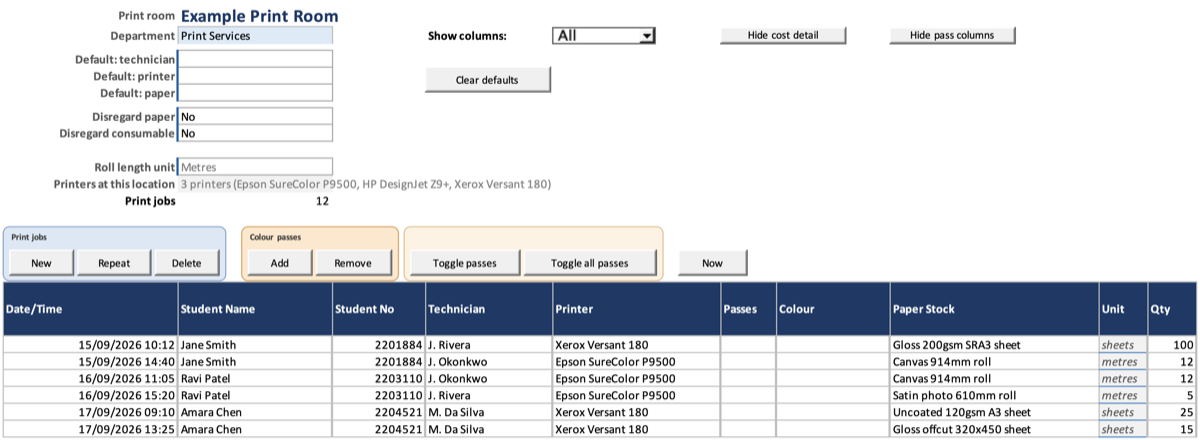
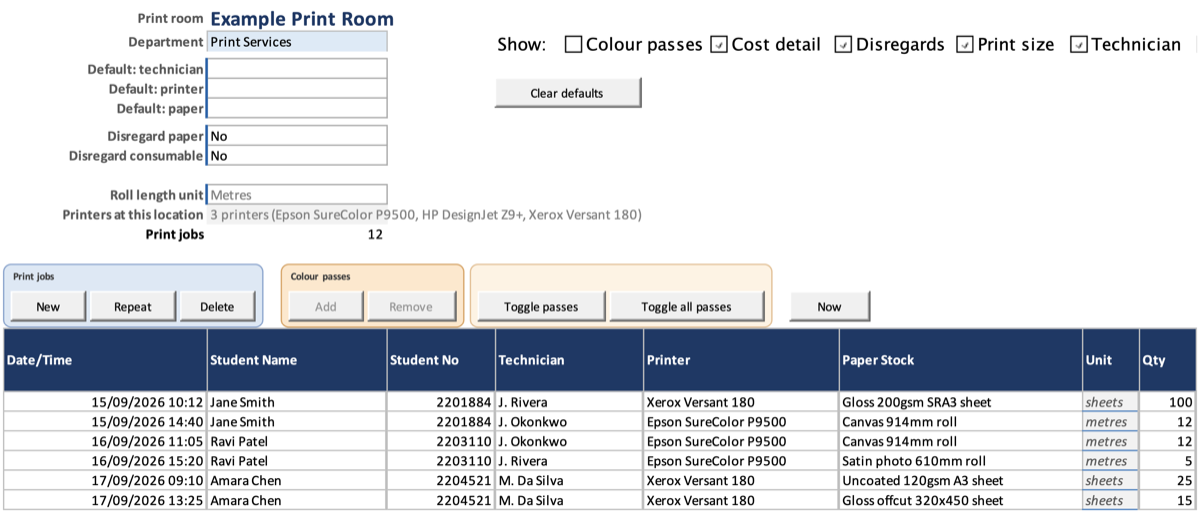
0.12.0 (work in progress): retaken screenshots, wiki stamps, leftover references

diff --git a/docs/ARCHITECTURE.md b/docs/ARCHITECTURE.md
@@ -656,7 +656,7 @@ Settings keeps its own copies deliberately: it is where someone lands when confi
 | `modCatalog` | Configuration loaded once per operation; **catalogue row Add/Remove; Clear table (§10.8); the department lookup (`DepartmentFor`, `FreeDepartmentFor`)** | Built |
 | `modDepartments` | The Departments sheet: build/format (`EnsureDepartmentsSheet`), the `DEPT_ID_HWM` setting, sheet-edit handling, the on-entry disregard stamp (§3.3) | Built |
 | `modConsumables` | The Consumables sheet (0.11.0): build/format (`EnsureConsumablesSheet`), the `COLOUR_ID_HWM` Settings row, and `OnColourEdited` (ID, Active default, duplicate-name warning) | Built |
-| `modPasses` | Multi-pass costing (0.11.0): pass rows (`AddPass`, `RemovePass`/`DeletePass`, `RenumberPasses`, `GroupRows`), `RebuildGroups` and `ApplyPassFormat` (row groups and shading), `OnColourChanged`/`RestampPassRow`, `BindPassColours`, the pass buttons' collapse/expand and greying, the pass-column toggle, `PreparePassSheet` | Built |
+| `modPasses` | Multi-pass costing (0.11.0): pass rows (`AddPass`, `RemovePass`/`DeletePass`, `RenumberPasses`, `GroupRows`), `RebuildGroups` and `ApplyPassFormat` (row groups and shading), `OnColourChanged`/`RestampPassRow`, `BindPassColours`, the pass buttons' collapse/expand and greying, `PreparePassSheet` | Built |
 | `modSettings` | Typed accessors for settings and named ranges | Built |
 | `modProtect` | Protect/unprotect wrappers, re-applied on open, **no default password** | Built |
 | `modUtils` | Application state, messaging, quiet mode, table and name access, ID generation, schema version constant | Built |
@@ -1194,7 +1194,7 @@ Built: the `Departments` sheet, the free-department auto-disregard on entry, a D
 - **Reports and Summary** show `Passes` (after Printer) and `Set-up Cost` (after Consumable Cost) per job, never per-pass detail (17, 28). Reports gain a `Pass type` filter (blank = all) and a `Passes` sort (32).
 - **Export and Import** carry pass rows in the same jobs CSV, distinguished by `Row Type`; a pass row holds only Row Type, Parent, Pass, colour, ink cost and set-up cost, and Import replaces a job's whole pass group as one block (18, 21). Exports from schema 1.3 still import: missing columns read as `Job`, 0 passes, 0 set-up (20). An unknown colour imports normally and shows a milder yellow notice rather than a problem (30, 31, 35).
 - **Check rules.** A blank colour, a colour of the wrong consumable type, an out-of-sequence pass number and an orphan pass are problems; an unknown colour is a notice (10, 24, 30, 35).
-- **Buttons.** Add pass, Remove pass, Toggle passes (this job) and Toggle all passes, on every location sheet, lighter when no multi-pass printer exists; Add pass / Remove pass grey out unless a multi-pass job or pass row is selected, and a click on a greyed button shows "Select a multi-pass job, or one of its passes, first." (7, 22, 36). A separate column toggle covers `Colour` and `Passes` (and, as built, Row Type, Parent and Pass); `Set-up Cost` stays with the cost toggle; the All / Reduced / Minimal drop-down does not affect the pass columns (22; companion doc 1, 2; its decisions 3 and 8 were changed, §17.4).
+- **Buttons.** Add pass, Remove pass, Toggle passes (this job) and Toggle all passes, on every location sheet, lighter when no multi-pass printer exists; Add pass / Remove pass grey out unless a multi-pass job or pass row is selected, and a click on a greyed button shows "Select a multi-pass job, or one of its passes, first." (7, 22, 36). A separate column toggle covered `Colour` and `Passes` (and, as built, Row Type, Parent and Pass); `Set-up Cost` stayed with the cost toggle; the All / Reduced / Minimal drop-down did not affect the pass columns (22; companion doc 1, 2; its decisions 3 and 8 were changed, §17.4). Since 0.12.0 the Colour passes box covers `Passes` and `Colour`, and the rest follow the Cost detail box or the internal columns setting (§4.1).
 - **Sheets are not sortable or filterable** (12), and a printer cannot be changed on a job that has passes (8). Whole-row `EntireRow.Insert` / `.Delete` keep outline levels aligned; a rebuild routine repairs them and backs Check workbook (design doc, tests).
 - **Template.** `Outline.SummaryRow` cannot change once a table exists, so `summaryBelow="0"` is baked into the location sheet XML of `PrintCosts.xlsx` by a re-runnable script, together with the new columns (design doc, tests).
 

diff --git a/SETUP.md b/SETUP.md
@@ -290,7 +290,7 @@ job IDs already carry it.
 | `verify.ps1` | Opens the built `.xlsm` **read-only** and reports version, document properties, tables, registry, the consolidated range and button bindings |
 | `test-duplicate.ps1` | AT-13. Duplicates a print room in VBA, refreshes, reports, and closes without saving |
 | `test-reports.ps1` | Summary and Reports end to end: every AT-12 criteria case, the Technician/Printer/Paper Stock filters and sort-by-column, export-names prompt, minimum-columns view, Paid column, Summary buttons, and Export report (header block, single-value promotion, name blanking). Adds the Annexe fixture as a second location. Closes without saving |
-| `test-layout.ps1` | Shipped column order, no outline groups, Notes visible, H_Issues/snapshot hidden, header block survives a reduced-view toggle, Summary/Reports still reconcile |
+| `test-layout.ps1` | Shipped column order, no outline groups, Notes visible, H_Issues/snapshot hidden, header block survives every Show: group being off, Summary/Reports still reconcile |
 | `test-manualhide.ps1` | Columns hidden by hand (not via the toggle): table-anchored buttons leave a hidden column and side-panel buttons follow column 36 on the next click |
 | `TestCommon.ps1` | Not a test: shared `Invoke-ComRetry`, `Check` (assertion line) and `Col` (column lookup), dot-sourced by the tests |
 | `test-export.ps1` | Phase 6. Exports a print room, reads the CSV back, edits a row and confirms the fingerprint notices |

diff --git a/wiki/Jobs-Views-and-Units.md b/wiki/Jobs-Views-and-Units.md
@@ -16,6 +16,8 @@ On a print room sheet, find **Show:** near the top, and tick or untick:
 | **Technician** | Technician |
 | **Printer** | Printer |
 
+![A print room sheet with the Show boxes on row 2, and Disregards and Print size unticked](images/Jobs-Views-and-Units-1-mac.png)
+
 Each room keeps its own choices. Status, Chargeable Cost, Paid and the columns
 you fill in for every job always show.
 
@@ -62,4 +64,4 @@ show roll lengths in metres.
 
 ---
 
-*Draft for v0.11.7, with Mac screenshots. Not yet verified on Windows.*
+*Draft for v0.12.0, with Mac screenshots. Not yet verified on Windows.*

diff --git a/wiki/Admin-Upgrading.md b/wiki/Admin-Upgrading.md
@@ -54,4 +54,4 @@ The sample room is removed once your own rooms are in. Check the totals on
 
 ---
 
-*Draft for v0.11.7, without screenshots yet. Not yet verified on Windows.*
+*Draft for v0.12.0, without screenshots yet. Not yet verified on Windows.*

diff --git a/wiki/Reports-Export.md b/wiki/Reports-Export.md
@@ -57,4 +57,4 @@ holds the values, not formulas, so it opens the same on any computer.
 
 ---
 
-*Draft for v0.11.7, without screenshots yet. Not yet verified on Windows.*
+*Draft for v0.12.0, without screenshots yet. Not yet verified on Windows.*

diff --git a/wiki/Data-Export-Room.md b/wiki/Data-Export-Room.md
@@ -72,4 +72,4 @@ been exported. Once jobs change, it says how many changes there are since.
 
 ---
 
-*Draft for v0.11.7, with Mac screenshots. Not yet verified on Windows.*
+*Draft for v0.12.0, with Mac screenshots. Not yet verified on Windows.*

diff --git a/wiki/Setup-Consumables.md b/wiki/Setup-Consumables.md
@@ -47,4 +47,4 @@ the pass's **Colour** drop-down. See [Colour passes](Jobs-Colour-Passes).
 
 ---
 
-*Draft for v0.11.7, with Mac screenshots. Not yet verified on Windows.*
+*Draft for v0.12.0, with Mac screenshots. Not yet verified on Windows.*

diff --git a/wiki/Setup-Print-Rooms.md b/wiki/Setup-Print-Rooms.md
@@ -83,4 +83,4 @@ sheet is locked once set, so use this command rather than typing over it.
 
 ---
 
-*Draft for v0.11.7, with Mac screenshots. Not yet verified on Windows.*
+*Draft for v0.12.0, with Mac screenshots. Not yet verified on Windows.*

diff --git a/wiki/How-It-Works.md b/wiki/How-It-Works.md
@@ -90,4 +90,4 @@ room...**: click **Refresh Locations** so the reports include it.
 
 ---
 
-*Draft for v0.11.7, without screenshots yet. Not yet verified on Windows.*
+*Draft for v0.12.0, without screenshots yet. Not yet verified on Windows.*

diff --git a/wiki/Setup-Settings.md b/wiki/Setup-Settings.md
@@ -83,4 +83,4 @@ Below the tables, **PrintJob on GitHub** opens the project's home page.
 
 ---
 
-*Draft for v0.11.7, with Mac screenshots. Not yet verified on Windows.*
+*Draft for v0.12.0, with Mac screenshots. Not yet verified on Windows.*

diff --git a/wiki/Setup-Departments.md b/wiki/Setup-Departments.md
@@ -62,4 +62,4 @@ on Reports and in the **By department** blocks on Reports and Summary.
 
 ---
 
-*Draft for v0.11.7, with Mac screenshots. Not yet verified on Windows.*
+*Draft for v0.12.0, with Mac screenshots. Not yet verified on Windows.*

diff --git a/wiki/FAQ.md b/wiki/FAQ.md
@@ -59,4 +59,4 @@ beside the full figures. Jobs themselves are not changed. See
 
 ---
 
-*Draft for v0.11.7, without screenshots yet. Not yet verified on Windows.*
+*Draft for v0.12.0, without screenshots yet. Not yet verified on Windows.*
